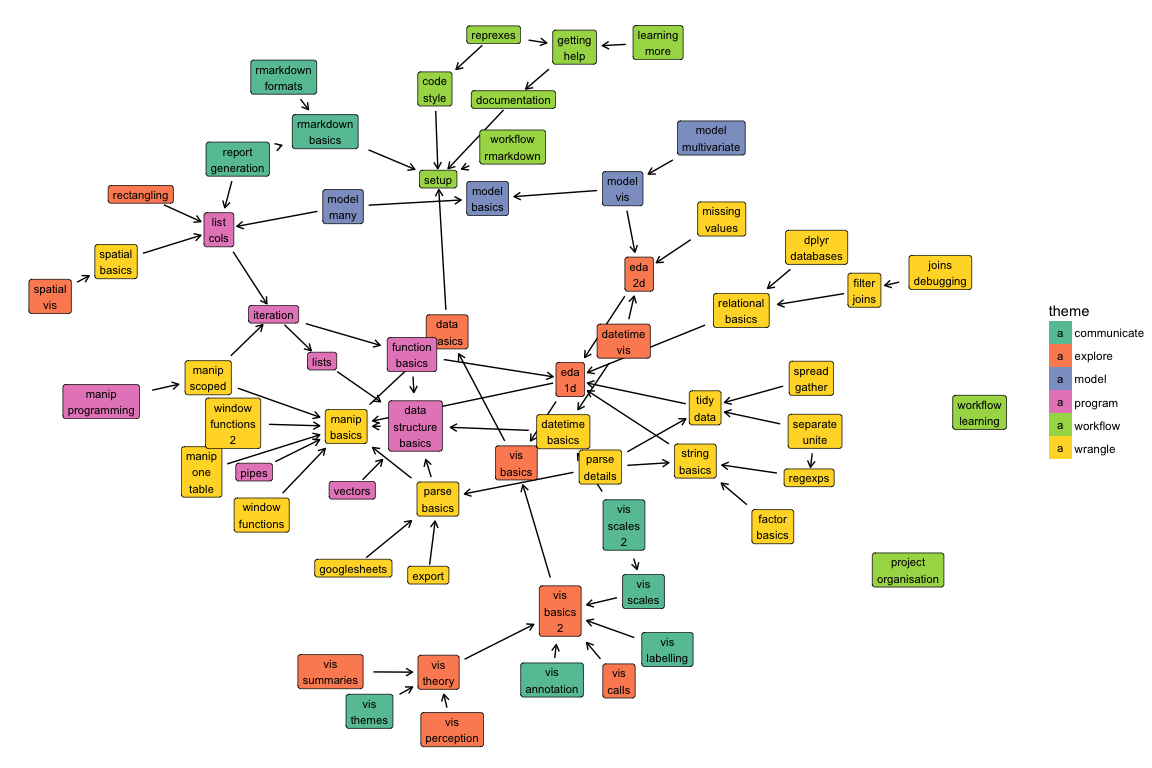
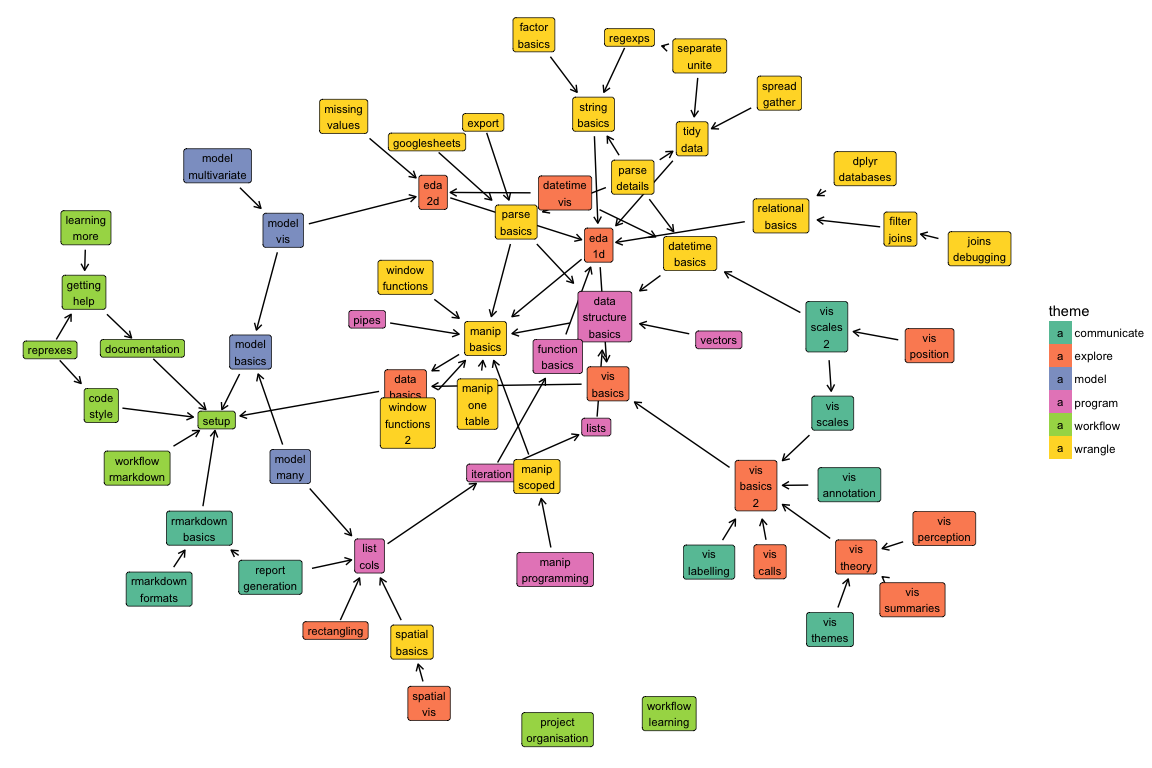
Vis positioning unit

diff --git a/storyboard.md b/storyboard.md
@@ -223,7 +223,7 @@
 |ggplot2-4                             |Mastering the grammar                             |                                                                                   |                                                                             |                                                                                     |                                                                                       |                                                                                 |                                                                               |                                                                                       |                                                                       |                                                                                     |                                                                                     |
 |ggplot2-5                             |Build a plot layer by layer                       |                                                                                   |                                                                             |                                                                                     |                                                                                       |                                                                                 |                                                                               |                                                                                       |                                                                       |                                                                                     |                                                                                     |
 |ggplot2-6                             |Scales, axes and legends                          |                                                                                   |                                                                             |                                                                                     |                                                                                       |[vis-scales-2](https://dcl-2017-01.github.io/curriculum/vis-scales-2.html)       |                                                                               |                                                                                       |                                                                       |                                                                                     |                                                                                     |
-|ggplot2-7                             |Positioning                                       |                                                                                   |                                                                             |                                                                                     |                                                                                       |                                                                                 |                                                                               |                                                                                       |                                                                       |                                                                                     |                                                                                     |
+|ggplot2-7                             |Positioning                                       |                                                                                   |                                                                             |                                                                                     |                                                                                       |                                                                                 |                                                                               |                                                                                       |                                                                       |[vis-position](https://dcl-2017-01.github.io/curriculum/vis-position.html)           |                                                                                     |
 |ggplot2-8                             |Themes                                            |                                                                                   |                                                                             |                                                                                     |                                                                                       |[vis-themes](https://dcl-2017-01.github.io/curriculum/vis-themes.html)           |                                                                               |                                                                                       |                                                                       |                                                                                     |                                                                                     |
 |ggplot2-9                             |Data analysis                                     |                                                                                   |                                                                             |                                                                                     |                                                                                       |                                                                                 |                                                                               |                                                                                       |                                                                       |                                                                                     |                                                                                     |
 |ggplot2-10                            |Data transformation                               |                                                                                   |                                                                             |                                                                                     |                                                                                       |                                                                                 |                                                                               |                                                                                       |                                                                       |                                                                                     |                                                                                     |

diff --git a/docs/vis-position.md b/docs/vis-position.md
@@ -1,0 +1,19 @@
+---
+title: Positioning
+---
+
+<!-- Generated automatically from vis-position.yml. Do not edit by hand -->
+
+# Positioning <small class='explore'>[explore]</small>
+<small>(Builds on: [Advanced scales](vis-scales-2.md))</small>
+
+In ggplot2, positioning is controlled collectively by positiong adjustments,
+x and y scales, facetting and coordinate systems. You've learned the details
+of scales and position adjustments already; now its time to get into the
+details of facetting and coordinate systems.
+
+## Readings
+
+  * [Positioning](http://link.springer.com.ezproxy.stanford.edu/chapter/10.1007/978-3-319-24277-4_7) [ggplot2-7]
+
+

diff --git a/docs/vis-scales-2.md b/docs/vis-scales-2.md
@@ -5,7 +5,8 @@ title: Advanced scales
 <!-- Generated automatically from vis-scales-2.yml. Do not edit by hand -->
 
 # Advanced scales <small class='communicate'>[communicate]</small>
-<small>(Builds on: [Scales](vis-scales.md), [Date/time basics](datetime-basics.md))</small>
+<small>(Builds on: [Scales](vis-scales.md), [Date/time basics](datetime-basics.md))</small>  
+<small>(Leads to: [Positioning](vis-position.md))</small>
 
 You've learned the basics of controlling scales. Now we'll dive into more
 of the details.

diff --git a/docs/upcoming.md b/docs/upcoming.md
@@ -337,6 +337,11 @@ title: Theme index
   <td colspan="3"><a class="communicate" href="report-generation.html">Generating multiple reports</a></td>
   <td colspan="1"></td>
 </tr>
+<tr>
+<td></td>
+  <td colspan="3"><a class="explore" href="vis-position.html">Positioning</a></td>
+  <td colspan="5"></td>
+</tr>
 </tbody>
 <tbody>
 <tr>
